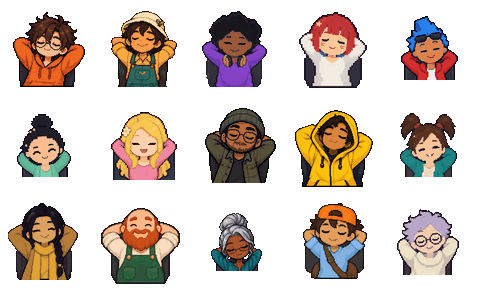
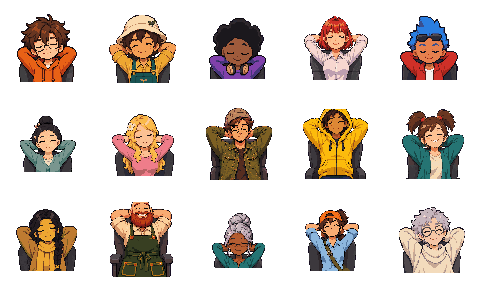
102: the Retro pixel group picture cut from the HD busts (build-character-groups.py read the removed seat; test:chargroups); rebuilt with Pillow 11.3.0 (T502)

diff --git a/scripts/build-character-groups.py b/scripts/build-character-groups.py
@@ -5,7 +5,7 @@
     python3 scripts/build-character-groups.py --selftest
 
 A set's group picture is made only from that set's own shipped pictures (`src/renderer/realoffice/sets/<id>/<person>-rest.webp`, the seated
-resting pose): a head-and-shoulders square of each person, cut from `set.json`'s `seat` numbers, laid out in rows, the last row centred,
+resting pose; for a set with only HD people, its HD seated bust `hd/<person>-rest@4.webp` and `hd.busts`, spec 102 T502): a head-and-shoulders square of each person, cut from `set.json`'s `seat` numbers, laid out in rows, the last row centred,
 people in sorted id order. Never new art, no network, no randomness: the same pictures give the same bytes. Pillow only (WebP, no EXIF, XMP
 or ICC chunk), like `build-kid-pack.py`. Each picture is at most MAX_BYTES (64 KB, FR-303): the script lowers the WebP quality step by step,
 then the tile size, and fails (never drops a person, never writes an oversized file) when nothing fits.
@@ -32,6 +32,7 @@ TORSO_SETS = ('office',)       # sets whose seated picture shows the body down t
 ASPECT = 1.6                   # the group's width : height the rows aim at (a card's picture is wider than tall)
 FACE_MIN_PX = 24               # FR-303's floor: a face is at least this many pixels in a tile (the app's own face height, FACE_U of the body, as `headCrop` takes it)
 
+HD_K = 4                       # spec 102 T502: an HD bust is authored at scale 4 of the 80 px grid
 MUTANT = os.environ.get('CG_MUTANT', '')   # test-character-groups.js runs the selftest with one of these set; each must fail it
 
 
@@ -123,11 +124,15 @@ def build_group(set_id, sets_dir=SETS):
     from PIL import Image
     d = os.path.join(sets_dir, set_id)
     with open(os.path.join(d, 'set.json'), encoding='utf8') as f: meta = json.load(f)
-    seat = meta['seat']
+    # spec 102 T502: a set whose people are only its HD set (no `seat` of its own: the Retro pixel set) is cut from its HD seated busts, `hd/<person>-rest@4.webp`, with `hd.busts`
+    hd = 'seat' not in meta and isinstance(meta.get('hd'), dict) and meta['hd'].get('busts')
+    seat = {k: dict(v) for k, v in meta['hd']['busts'].items()} if hd else meta['seat']
+    rest = (lambda pid: os.path.join('hd', pid + '-rest@4.webp')) if hd else (lambda pid: pid + '-rest.webp')
     pics = {}
     for pid in seat:
-        with Image.open(os.path.join(d, pid + '-rest.webp')) as im: pics[pid] = im.convert('RGBA')
-        seat[pid] = to_pixels(seat[pid], pics[pid].size, '%s/%s-rest.webp' % (set_id, pid))
+        with Image.open(os.path.join(d, rest(pid))) as im: pics[pid] = im.convert('RGBA')
+        if hd: pics[pid] = pics[pid].resize((round(pics[pid].width / HD_K), round(pics[pid].height / HD_K)), Image.NEAREST)  # the s 4 bust at the set's own grid (80 px, the size the first pictures had), its own colours: a whole bust in its cell, never a cut face
+        seat[pid] = to_pixels(seat[pid], pics[pid].size, '%s/%s' % (set_id, rest(pid)))
     pixel, torso = bool(meta.get('pixelArt')), set_id in TORSO_SETS
     for pid in seat:
         if face_px(seat[pid], TILE_MIN, torso) < FACE_MIN_PX - 0.01: raise SystemExit('%s/%s: a face would be under the floor at the smallest tile' % (set_id, pid))

diff --git a/specs/102-worlds-on-demand/spec.md b/specs/102-worlds-on-demand/spec.md
@@ -2629,6 +2629,7 @@ After the flip (T472) nothing drew the first Retro pixel pictures. The owner's r
   - The 300 pictures at the top of `sets/retro/` (15 people x 20 frames, 0.33 MB). Their provenance stays in the git history; `ASSETS.md` keeps one removal record.
   - The `set.json` keys `seat`, `stand` and `faceBox`.
   - The people part of `scripts/build-arcade-pack.py` (it now draws only the arcade world), and `scripts/build-arcade-sleep.py`.
+- **The character group picture** (`groups/retro.webp`, FR-303; not shipped yet, T266): `scripts/build-character-groups.py` read the removed `seat` and `-rest.webp`, and `npm test` (`test:chargroups`) failed on it. A set with only HD people (no `seat`, `hd.busts`) is now cut from `hd/<person>-rest@4.webp`, taken down by 4 by nearest neighbour to the 80 px grid the first pictures had. The bust stays whole, uses its own colours (lossless 19.6 KB, under 64 KB), and passes the face floor. Rebuilt with Pillow 11.3.0 (the CI pin); `--check` passes for all nine sets. The HD people have smaller heads than the first, chibi pictures, so the faces on that card are smaller (still over FR-303's 24 px floor, as the build checks).
 - **The numbers move into the HD block:**
   - `hd.stand`: for each person, the size, `feet`, `top` and `foot` of every HD frame, measured on its 72 px (s 1) frame, with `figH` 72. The lobby (the visitor's scale and pose) and the arcade (place width, pose choice) read it through `standOf`. A set with its own `stand` (Office people, the crews) keeps it.
   - `foot` of the running frames (`runA`, `runB`, `face-runA`, `face-runB`) uses the old builder's rule: the head's mean x over the top 40 % of the figure, so a stride does not move the head.

diff --git a/src/renderer/realoffice/groups/ASSETS.md b/src/renderer/realoffice/groups/ASSETS.md
@@ -2,7 +2,7 @@
 
 One picture per character set for the Settings cards (`Characters in <world>`, FR-303): the set's people, a head-and-shoulders square of each, in rows.
 
-- **No new art.** Every pixel comes from the set's own shipped `<person>-rest.webp` (provenance in `../sets/<id>/ASSETS.md`); licence and likeness checks are those of the sets.
+- **No new art.** Every pixel comes from the set's own shipped `<person>-rest.webp` (provenance in `../sets/<id>/ASSETS.md`); licence and likeness checks are those of the sets. The Retro pixel set has only HD people since spec 102 T502: its picture comes from `hd/<person>-rest@4.webp` (the seated bust, `hd.busts`), taken down to the set's 80 px grid by nearest neighbour (its own colours).
 - **Made by** `scripts/build-character-groups.py` (`npm run groups:build`), Pillow 11.3.0 (the pin of `ci.yml`; another version writes other bytes), deterministic: sorted ids, no randomness, no network, WebP without EXIF, XMP or ICC. `--check` (in `npm run test:chargroups`) fails when a picture differs from what the set pictures give now.
 - **Size:** at most 64 KB each (FR-303); the script lowers quality, then fails; it never drops a person.
 - **Not shipped yet:** `scripts/copy-assets.js` copies `sets/` and `worlds/` only; T266 wires these into the app.
